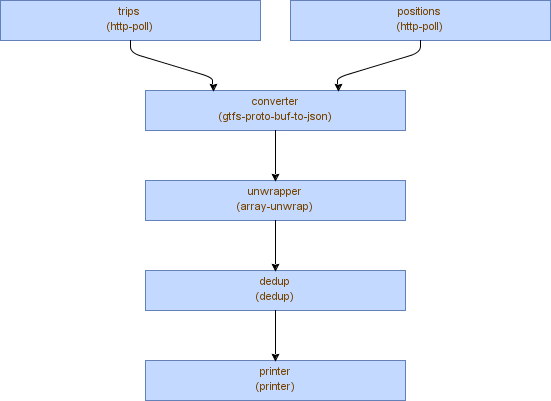
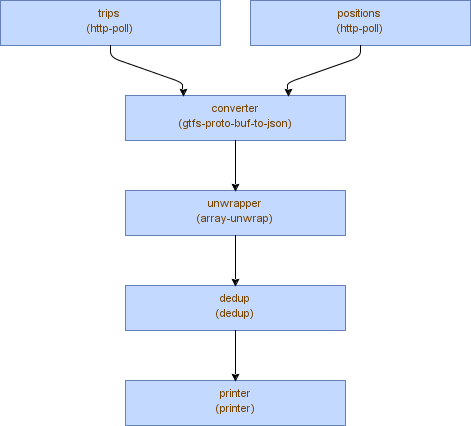
composition-drawer: update

diff --git a/libs/composition-drawer/src/GenerateCompositionImageTask.kt b/libs/composition-drawer/src/GenerateCompositionImageTask.kt
@@ -14,7 +14,10 @@ open class GenerateCompositionDiagramTask : DefaultTask() {
   @OutputFile
   var imgPath: File = File(project.buildDir, "composition.png")
   
+  @Input
   var blockWidth: Double = CompositionGraphWriter.defaultWidth
+  
+  @Input
   var blockHeight: Double = CompositionGraphWriter.defaultHeight
   
   @TaskAction

diff --git a/readme.md b/readme.md
@@ -1,6 +1,6 @@
 ## Satori Composer (preview)
 [![Build Status](https://travis-ci.org/satori-com/satori-composer.svg?branch=dev)](https://travis-ci.org/satori-com/satori-composer)
-[![Build Status](https://img.shields.io/nexus/s/https/oss.sonatype.org/com.satori/satori-composer.svg)](https://oss.sonatype.org/content/repositories/snapshots/com/satori/satori-composer/0.5.12-SNAPSHOT/)
+[![Build Status](https://img.shields.io/nexus/s/https/oss.sonatype.org/com.satori/satori-composer.svg)](https://oss.sonatype.org/content/repositories/snapshots/com/satori/satori-composer/0.5.13-SNAPSHOT/)
 
 #### Example
 ![diagram](docs/files/big-blue-bus-composition.png)
@@ -87,7 +87,7 @@
 <dependency>
     <groupId>com.satori</groupId>
     <artifactId>satori-composer</artifactId>
-    <version>0.5.12-SNAPSHOT</version>
+    <version>0.5.13-SNAPSHOT</version>
 </dependency>
 ```
 

diff --git a/libs/gtfs/readme.md b/libs/gtfs/readme.md
@@ -14,13 +14,13 @@ classes are generated based on [gtfs-realtime.proto](https://developers.google.c
 <dependency>
     <groupId>com.satori</groupId>
     <artifactId>satori-libs-gtfs</artifactId>
-    <version>0.5.12-SNAPSHOT</version>
+    <version>0.5.13-SNAPSHOT</version>
 </dependency>
 ```
 
 
 ### Download
-[satori-libs-gtfs.v0.5.12-SNAPSHOT.zip](https://github.com/satori-com/satori-composer/releases/download/v0.5.12-SNAPSHOT/satori-libs-gtfs.v0.5.12-SNAPSHOT.zip)<br/>
+[satori-libs-gtfs.v0.5.13-SNAPSHOT.zip](https://github.com/satori-com/satori-composer/releases/download/v0.5.13-SNAPSHOT/satori-libs-gtfs.v0.5.13-SNAPSHOT.zip)<br/>
 [or see latest releases](https://github.com/satori-com/satori-composer/releases/latest)
 
 ### Examples
